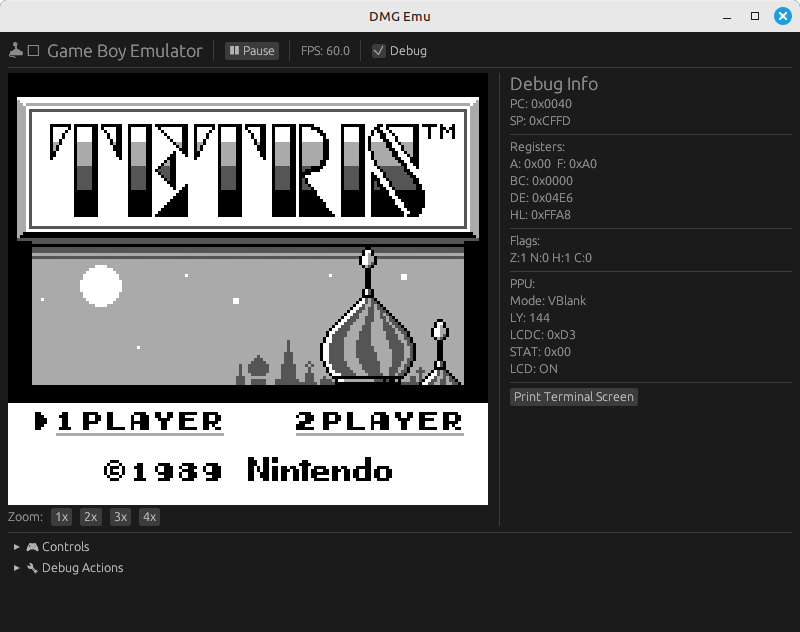
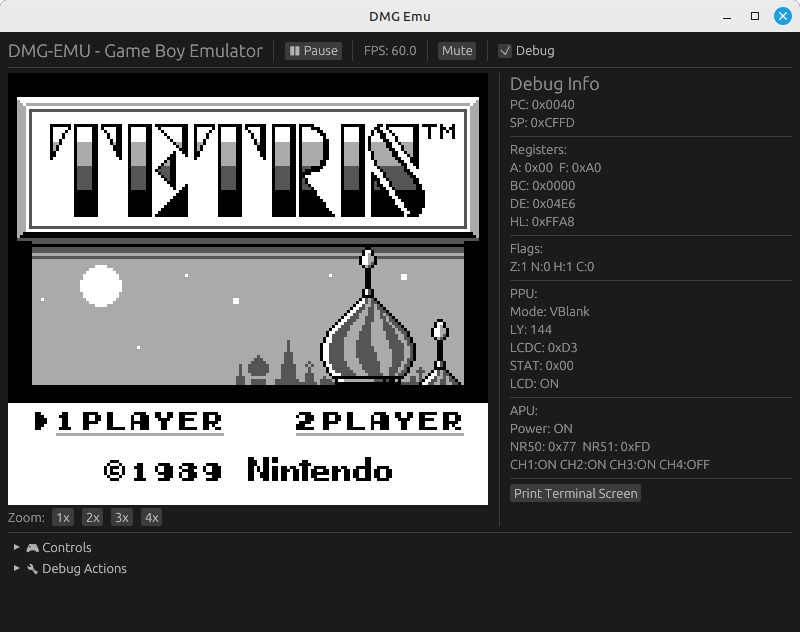
chore: update emu screenshot

Changed region(s): [[0.625, 0.1203, 0.9688, 0.8117], [0.0, 0.0601, 0.6875, 0.1203], [0.0, 0.8117, 0.2188, 0.932]]

diff --git a/src/emulator/gui.rs b/src/emulator/gui.rs
@@ -231,7 +231,7 @@ impl eframe::App for GameBoyApp {
 
         egui::CentralPanel::default().show(ctx, |ui| {
             ui.horizontal(|ui| {
-                ui.heading("🕹 Game Boy Emulator");
+                ui.heading("DMG-EMU - Game Boy Emulator");
                 ui.separator();
 
                 if ui
